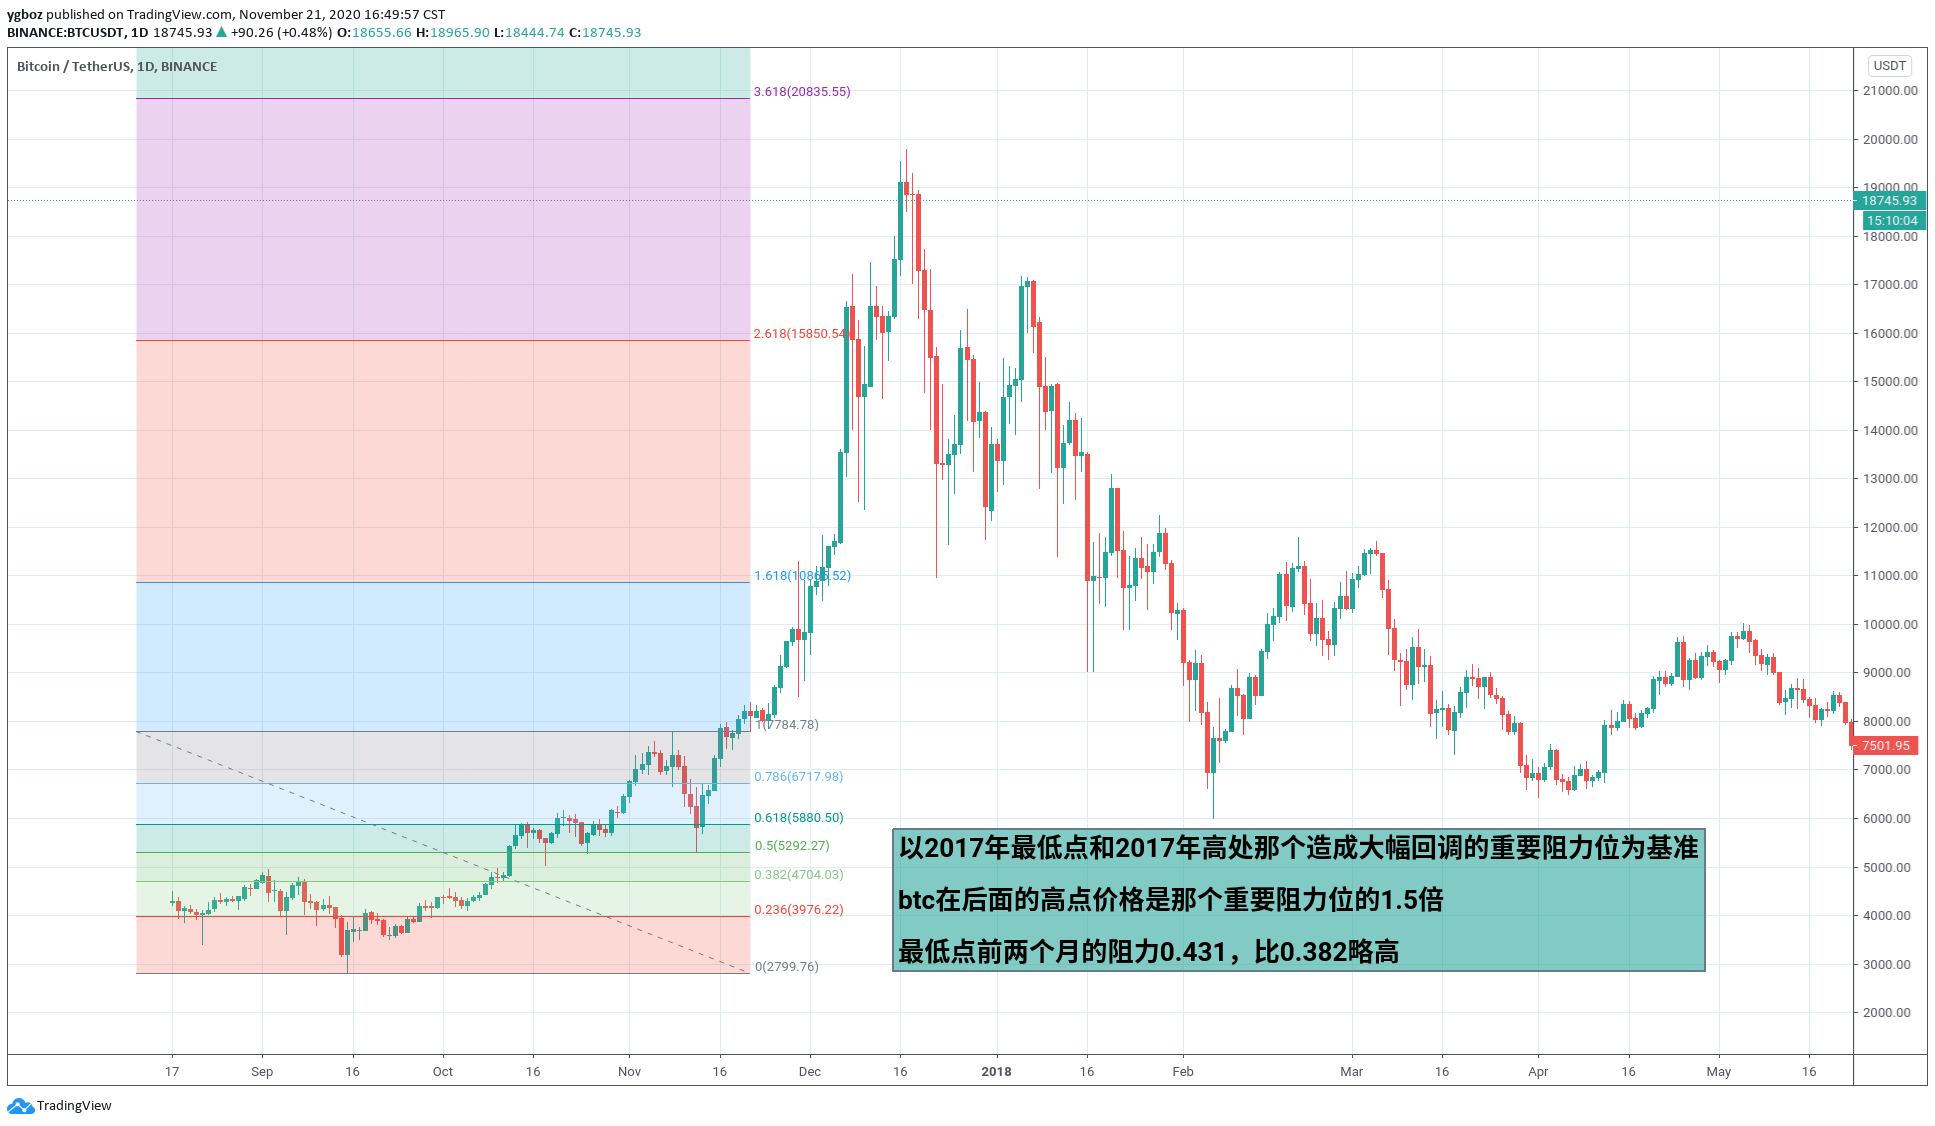
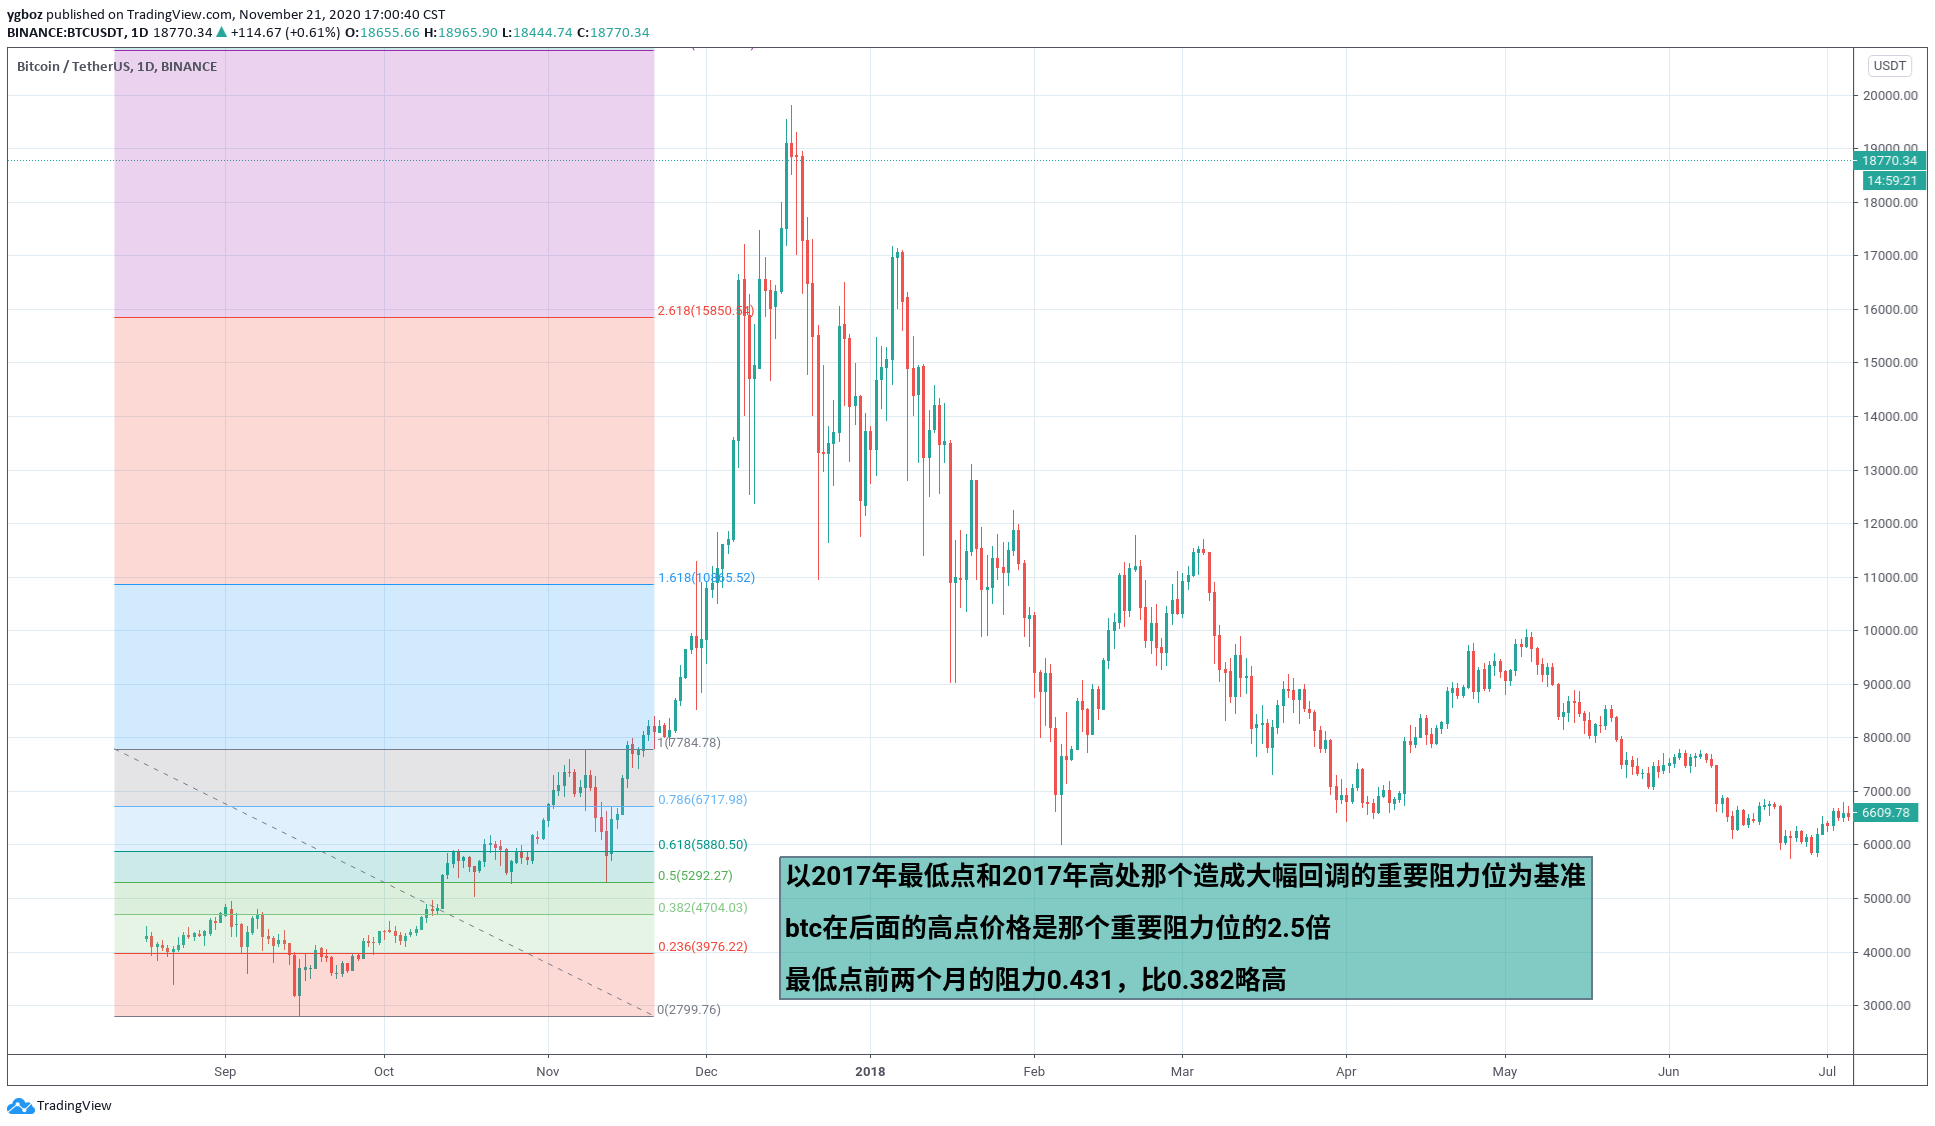
fix typo

diff --git a/TradingView/predict/btc/Readme.md b/TradingView/predict/btc/Readme.md
@@ -1,6 +1,6 @@
 # 大概预测比特币的未来高点
 
-以2017年最低点和2017年高处那个造成大幅回调的重要阻力位为基准，btc在后面的高点价格是那个重要阻力位的1.5倍。最低点前两个月的阻力0.431，比0.382略高。
+以2017年最低点和2017年高处那个造成大幅回调的重要阻力位为基准，btc在后面的高点价格是那个重要阻力位的2.5倍。最低点前两个月的阻力0.431，比0.382略高。
 
 ![](images/history.png)
 
